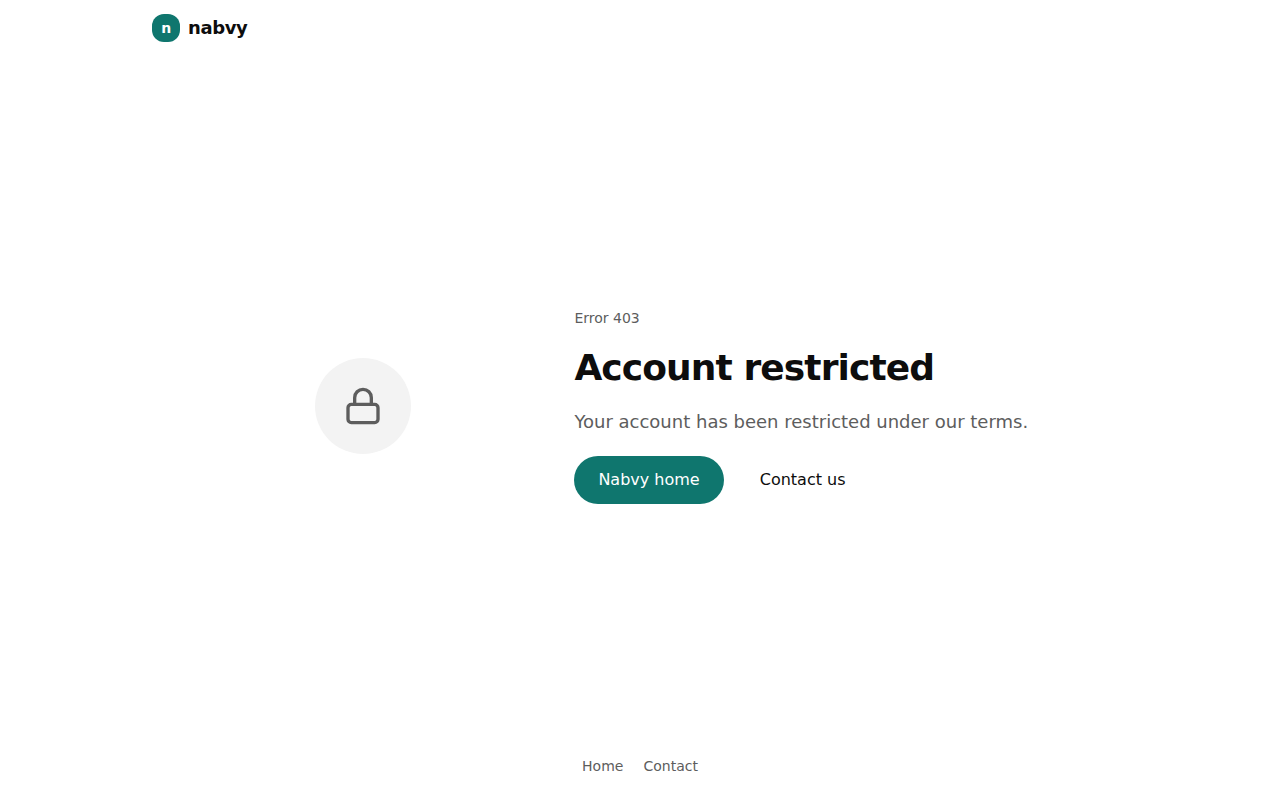
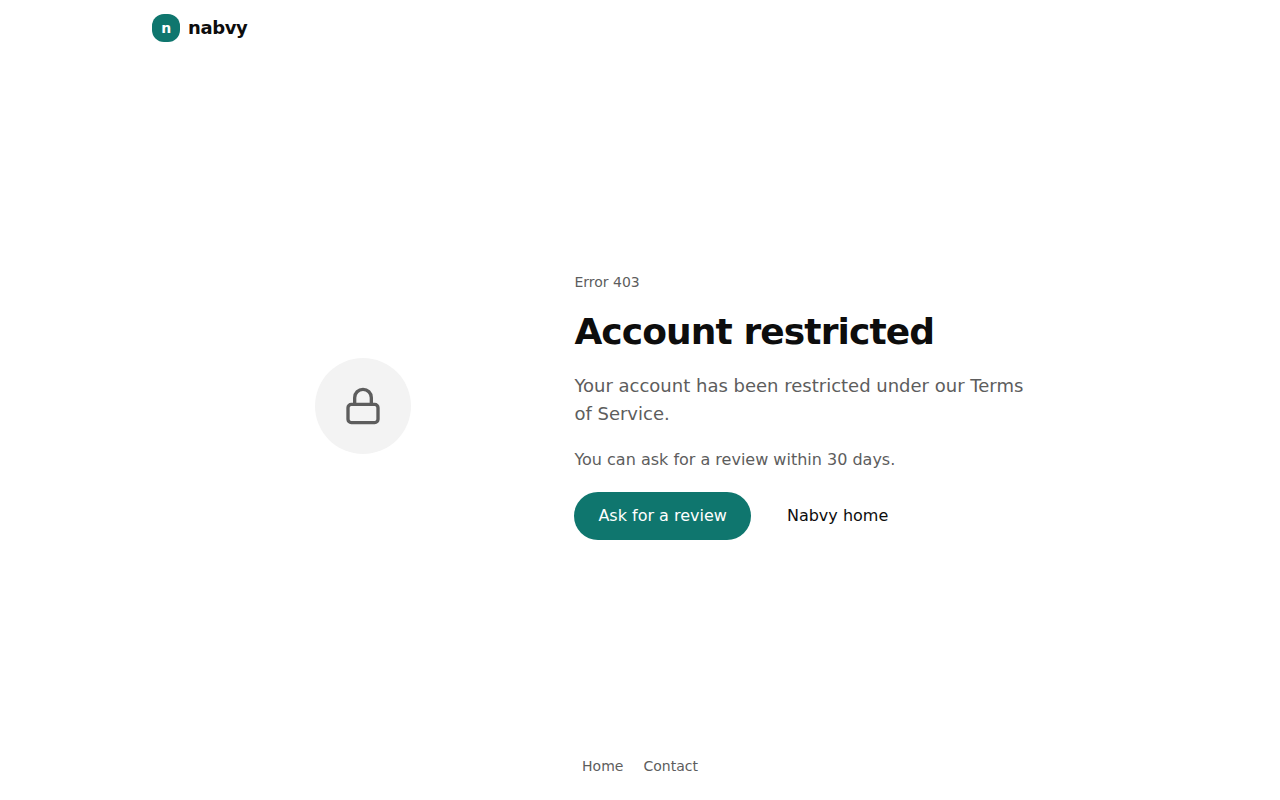
web: restricted notice names the step and policy with the 30-day review; review fixes (task 4.1c)
Claude-Session: https://claude.ai/code/session_01CcwBErXfCaenzcEtRzHvvB

Changed region(s): [[0.4375, 0.3438, 0.8125, 0.5312], [0.4375, 0.5625, 0.6875, 0.6875]]

diff --git a/apps/web/src/lib/errors.ts b/apps/web/src/lib/errors.ts
@@ -1,5 +1,5 @@
 /**
- * Copy for every error page (task 4.1b). One entry per HTTP status the app can show, plus the
+ * Copy for every error page (task 4.1c). One entry per HTTP status the app can show, plus the
  * account-restricted notice. The pattern is the one big tech uses: the code as a graphic, a
  * short human headline, one or two sentences saying what happened and what to do, one main
  * action, and a reference for server errors. Wording is Nabvy's own, in the deal-hunting
@@ -29,12 +29,46 @@ const signIn: ErrorAction = { label: 'Sign in', href: '/sign-in' }
 const contact: ErrorAction = { label: 'Contact us', href: 'mailto:hello@nabvy.com' }
 
 /**
- * The account-restricted notice. It must stay word for word the auth module's
- * ACCOUNT_RESTRICTED_MESSAGE (`@nabvy/contracts/modules/auth`, PR #9), and never gains a reason,
- * rule, date or score (docs/decisions.md, "Fair use, suspension and bans"). It is imported from
- * the contract once that pull request is merged.
+ * The account-restricted notice (docs/decisions.md, "Fair use, suspension and bans"): it names
+ * the step and the policy it was taken under and nothing more, and offers a review within 30
+ * days. No reason, rule, date or score. This mirrors `accountRestrictedNotice` and
+ * `ACCOUNT_REVIEW_OFFER` in `@nabvy/contracts/modules/auth` (PR #9); once that is merged these
+ * are imported from there instead.
  */
-export const ACCOUNT_RESTRICTED_NOTICE = 'Your account has been restricted under our terms.'
+export const RESTRICTION_POLICY_NAMES = {
+  terms: 'Terms of Service',
+  'acceptable-use': 'Acceptable Use Policy',
+  'fair-use': 'Fair Use Policy',
+} as const
+
+export type RestrictionPolicy = keyof typeof RESTRICTION_POLICY_NAMES
+export type RestrictionStep = 'suspended' | 'banned'
+
+export function restrictedNotice(step: RestrictionStep, policy: RestrictionPolicy): string {
+  return `Your account has been ${step} under our ${RESTRICTION_POLICY_NAMES[policy]}.`
+}
+
+export const REVIEW_OFFER = 'You can ask for a review within 30 days.'
+
+/** The step and policy from `/errors/restricted?step=…&policy=…`, or null if either is unknown. */
+export function parseRestriction(params: {
+  step?: string | string[]
+  policy?: string | string[]
+}): { step: RestrictionStep; policy: RestrictionPolicy } | null {
+  const step = params.step
+  const policy = params.policy
+  if (step !== 'suspended' && step !== 'banned') return null
+  if (typeof policy !== 'string' || !Object.hasOwn(RESTRICTION_POLICY_NAMES, policy)) return null
+  return { step, policy: policy as RestrictionPolicy }
+}
+
+/** Shown when the page is opened without a valid step and policy: still names no reason. */
+export const RESTRICTED_FALLBACK = 'Your account has been restricted under our Terms of Service.'
+
+const review: ErrorAction = {
+  label: 'Ask for a review',
+  href: 'mailto:hello@nabvy.com?subject=Account%20review',
+}
 
 export const errorPages = {
   '400': {
@@ -141,9 +175,9 @@ export const errorPages = {
     status: 403,
     tag: 'Restricted',
     title: 'Account restricted',
-    description: ACCOUNT_RESTRICTED_NOTICE,
-    primary: home,
-    secondary: contact,
+    description: RESTRICTED_FALLBACK,
+    primary: review,
+    secondary: home,
     plain: true,
   },
 } as const satisfies Record<string, ErrorPageCopy>
@@ -151,6 +185,9 @@ export const errorPages = {
 export type ErrorKind = keyof typeof errorPages
 
 export const errorKinds = Object.keys(errorPages) as ErrorKind[]
+
+/** The kinds served as static pages under /errors/[code]; `restricted` has its own route. */
+export const staticErrorKinds = errorKinds.filter((kind) => kind !== 'restricted')
 
 export function isErrorKind(value: string): value is ErrorKind {
   return Object.hasOwn(errorPages, value)

diff --git a/apps/web/test/errors.test.ts b/apps/web/test/errors.test.ts
@@ -1,5 +1,13 @@
+import { readFileSync } from 'node:fs'
 import { describe, expect, it } from 'vitest'
-import { ACCOUNT_RESTRICTED_NOTICE, errorKinds, errorPages, isErrorKind } from '@/lib/errors'
+import {
+  errorKinds,
+  errorPages,
+  isErrorKind,
+  parseRestriction,
+  REVIEW_OFFER,
+  restrictedNotice,
+} from '@/lib/errors'
 
 // Copy rules for the error pages (docs/web-app.md, "Copy rules"; docs/decisions.md, "Fair use,
 // suspension and bans").
@@ -41,13 +49,38 @@ describe('error pages', () => {
     }
   })
 
-  it('the restricted notice is the vague message and nothing more', () => {
+  it('the restricted notice names the step and policy only, and offers a review', () => {
+    expect(restrictedNotice('suspended', 'fair-use')).toBe(
+      'Your account has been suspended under our Fair Use Policy.',
+    )
+    expect(restrictedNotice('banned', 'terms')).toBe(
+      'Your account has been banned under our Terms of Service.',
+    )
+    expect(REVIEW_OFFER).toBe('You can ask for a review within 30 days.')
     const copy = errorPages.restricted
-    expect(copy.description).toBe('Your account has been restricted under our terms.')
-    expect(copy.description).toBe(ACCOUNT_RESTRICTED_NOTICE)
     expect(copy.plain).toBe(true)
-    const text = [copy.title, copy.tag, copy.primary.label, copy.secondary.label].join(' ')
-    expect(text).not.toMatch(/\b(ban|banned|suspend|suspended|until|reason|abuse|fraud|score)\b/i)
+    expect(copy.primary.label).toBe('Ask for a review')
+    const text = [copy.title, copy.tag, copy.description, copy.primary.label, copy.secondary.label]
+    expect(text.join(' ')).not.toMatch(/\b(reason|abuse|fraud|score|until|evidence)\b/i)
+  })
+
+  it('reads only a known step and policy from the address', () => {
+    expect(parseRestriction({ step: 'suspended', policy: 'fair-use' })).toEqual({
+      step: 'suspended',
+      policy: 'fair-use',
+    })
+    expect(parseRestriction({ step: 'suspended', policy: 'because we said so' })).toBeNull()
+    expect(parseRestriction({ step: 'kicked', policy: 'terms' })).toBeNull()
+    expect(parseRestriction({ step: ['banned'], policy: 'terms' })).toBeNull()
+    expect(parseRestriction({})).toBeNull()
+  })
+
+  it('server error pages show the opaque digest, never the message or stack', () => {
+    for (const file of ['error.tsx', 'global-error.tsx']) {
+      const source = readFileSync(new URL(`../src/app/${file}`, import.meta.url), 'utf8')
+      expect(source, file).toMatch(/reference=\{error\.digest\}/)
+      expect(source, file).not.toMatch(/error\.(message|stack|cause)/)
+    }
   })
 
   it('the generic 403 never hints at a restriction', () => {

diff --git a/apps/web/src/app/errors/[code]/page.tsx b/apps/web/src/app/errors/[code]/page.tsx
@@ -1,17 +1,17 @@
 import type { Metadata } from 'next'
 import { notFound } from 'next/navigation'
 import { ErrorPage } from '@/components/error-page'
-import { errorKinds, errorPages, isErrorKind } from '@/lib/errors'
+import { errorPages, isErrorKind, staticErrorKinds } from '@/lib/errors'
 
 /**
- * A static page per error (/errors/400 … /errors/504, /errors/restricted). The CDN, the proxy
+ * A static page per error (/errors/400 … /errors/504; /errors/restricted has its own route). The CDN, the proxy
  * and route handlers rewrite to these when Next's own boundaries do not apply (for example a 429
  * from the rate limiter or a 503 during maintenance); they are also the design reference.
  */
 export const dynamicParams = false
 
 export function generateStaticParams() {
-  return errorKinds.map((code) => ({ code }))
+  return staticErrorKinds.map((code) => ({ code }))
 }
 
 export async function generateMetadata({
@@ -28,6 +28,6 @@ export async function generateMetadata({
 
 export default async function ErrorCodePage({ params }: { params: Promise<{ code: string }> }) {
   const { code } = await params
-  if (!isErrorKind(code)) notFound()
+  if (!isErrorKind(code) || code === 'restricted') notFound()
   return <ErrorPage kind={code} />
 }

diff --git a/apps/web/src/components/error-page.tsx b/apps/web/src/components/error-page.tsx
@@ -15,9 +15,15 @@ export function ErrorPage({
   kind,
   reference,
   action,
+  description,
+  note,
   className,
 }: {
   kind: ErrorKind
+  /** Replaces the kind's description, e.g. the restriction notice for this account. */
+  description?: string
+  /** A second line under the description, e.g. the review offer. */
+  note?: string
   /** Shown for server errors, e.g. Next's error digest. */
   reference?: string
   /** Extra first action, e.g. a "Try again" button that resets the error boundary. */
@@ -51,7 +57,10 @@ export function ErrorPage({
             <h1 className="text-balance font-semibold text-3xl tracking-tight sm:text-4xl">
               {copy.title}
             </h1>
-            <p className="text-pretty text-lg text-muted-foreground">{copy.description}</p>
+            <p className="text-pretty text-lg text-muted-foreground">
+              {description ?? copy.description}
+            </p>
+            {note ? <p className="text-muted-foreground">{note}</p> : null}
             <div className="flex flex-wrap justify-center gap-3 md:justify-start">
               {action}
               <Button asChild size="lg" variant={action ? 'outline' : 'primary'}>

diff --git a/apps/web/src/app/errors/restricted/page.tsx b/apps/web/src/app/errors/restricted/page.tsx
@@ -1,0 +1,28 @@
+import type { Metadata } from 'next'
+import { ErrorPage } from '@/components/error-page'
+import { parseRestriction, RESTRICTED_FALLBACK, REVIEW_OFFER, restrictedNotice } from '@/lib/errors'
+
+/**
+ * The account-restricted notice (docs/decisions.md, "Fair use, suspension and bans"). The session
+ * helpers' refusal carries the step and the policy; the app redirects here with them, for example
+ * /errors/restricted?step=suspended&policy=fair-use. Anything else in the address is ignored, so
+ * the page can never show a reason, rule, date or score.
+ */
+export const metadata: Metadata = { title: 'Account restricted', robots: { index: false } }
+
+export default async function RestrictedPage({
+  searchParams,
+}: {
+  searchParams: Promise<{ step?: string | string[]; policy?: string | string[] }>
+}) {
+  const restriction = parseRestriction(await searchParams)
+  return (
+    <ErrorPage
+      kind="restricted"
+      description={
+        restriction ? restrictedNotice(restriction.step, restriction.policy) : RESTRICTED_FALLBACK
+      }
+      note={REVIEW_OFFER}
+    />
+  )
+}

diff --git a/apps/web/e2e/errors.spec.ts b/apps/web/e2e/errors.spec.ts
@@ -31,9 +31,13 @@ test('an unknown address answers 404 with the error page', async ({ page }) => {
   await expect(page.getByRole('link', { name: 'Go to your dashboard' })).toBeVisible()
 })
 
-test('the restricted notice shows only the vague message', async ({ page }) => {
-  await page.goto('/errors/restricted')
+test('the restricted notice names the step and policy only, and offers a review', async ({
+  page,
+}) => {
+  await page.goto('/errors/restricted?step=suspended&policy=fair-use&reason=chargeback-abuse')
   const text = await page.locator('main').innerText()
-  expect(text).toContain('Your account has been restricted under our terms.')
-  expect(text).not.toMatch(/\b(ban|banned|suspend|suspended|until|reason)\b/i)
+  expect(text).toContain('Your account has been suspended under our Fair Use Policy.')
+  expect(text).toContain('You can ask for a review within 30 days.')
+  expect(text).not.toMatch(/chargeback|abuse|until|reason/i)
+  await expect(page.getByRole('link', { name: 'Ask for a review' })).toBeVisible()
 })

diff --git a/apps/web/next.config.ts b/apps/web/next.config.ts
@@ -9,7 +9,7 @@ const nextConfig: NextConfig = {
   // so no remote image hosts are allowed.
   images: { remotePatterns: [] },
   // forbidden() and unauthorized() render app/forbidden.tsx (403) and app/unauthorized.tsx (401),
-  // so the session helpers' failures get their own pages (task 4.1b).
+  // so the session helpers' failures get their own pages (task 4.1c).
   experimental: { authInterrupts: true },
 }
 

diff --git a/apps/web/README.md b/apps/web/README.md
@@ -74,7 +74,7 @@ there are no CSP or HSTS headers. Do not deploy the app before tasks 0.5a (waitl
 (auth and the admin role) and 4.3b (security headers and rate limits) land. Fixture listing links
 point at `.invalid` hosts so none can resolve to a real listing.
 
-## Error pages (task 4.1b)
+## Error pages (task 4.1c)
 
 Every error the app can show uses one layout, `components/error-page.tsx`, with its copy in
 `lib/errors.ts`. The layout follows the pattern big tech uses for error pages, adapted to Nabvy:
@@ -92,16 +92,22 @@ Every error the app can show uses one layout, `components/error-page.tsx`, with 
 | `app/global-error.tsx` | 500 in the root layout; brings its own `<html>` |
 | `app/unauthorized.tsx` | 401 from `unauthorized()`, e.g. when `requireUser` fails |
 | `app/forbidden.tsx` | 403 from `forbidden()`, e.g. when `requireAdmin` fails |
-| `app/errors/[code]` | static pages for 400, 401, 403, 404, 408, 410, 429, 500, 502, 503 and 504, plus `restricted`. The proxy, route handlers and the CDN rewrite to these when Next's own boundaries do not apply (a 429 from the rate limiter, a 503 during maintenance) |
+| `app/errors/restricted` | the account-restricted notice (below) |
+| `app/errors/[code]` | static pages for 400, 401, 403, 404, 408, 410, 429, 500, 502, 503 and 504. The proxy, route handlers and the CDN rewrite to these when Next's own boundaries do not apply (a 429 from the rate limiter, a 503 during maintenance) |
 
 - `forbidden()` and `unauthorized()` need Next's `experimental.authInterrupts`, which is on in
-  `next.config.ts`.
-- **`/errors/restricted` stays plain on purpose:** a lock, "Account restricted", and exactly "Your
-  account has been restricted under our terms.", with no illustration or joke and no reason, date
-  or rule (`docs/decisions.md`, "Fair use, suspension and bans"). It offers "Nabvy home" and a
-  generic "Contact us", as big tech does. The generic 403 page never hints at a restriction. The
-  notice's text is duplicated in `lib/errors.ts` until the auth module's contract
-  (`ACCOUNT_RESTRICTED_MESSAGE`, PR #9) can be imported.
+  `next.config.ts`. It is an experimental flag for the whole app, tested on Next.js 16.3.6; check
+  these two pages after any Next.js upgrade.
+- Server error pages show only Next's opaque error digest as the reference, never the error's
+  message or stack (`test/errors.test.ts` checks the source).
+- **`/errors/restricted` stays plain on purpose:** a lock, "Account restricted", and the notice the
+  owner's decision allows (`docs/decisions.md`, "Fair use, suspension and bans"): the step and the
+  policy, for example "Your account has been suspended under our Fair Use Policy.", then "You can
+  ask for a review within 30 days." with an "Ask for a review" action. The app redirects there
+  with `?step=…&policy=…` from the auth module's refusal; anything else in the address is
+  ignored, and without a valid pair the page names the Terms of Service. No illustration, joke,
+  reason, date or rule. The generic 403 page never hints at a restriction. The notice is
+  mirrored in `lib/errors.ts` until the auth module's contract (PR #9) can be imported.
 - The copy follows the app's copy rules (no exclamation marks, no urgency, UK English).
   `test/errors.test.ts` checks it, and `e2e/errors.spec.ts` renders every page in the four
   projects and checks that an unknown address answers 404. The screenshots are

diff --git a/docs/questions.md b/docs/questions.md
@@ -33,4 +33,4 @@ Agents append here when a spec is unclear or a secret is missing. Format: date, 
 - **2026-09-24, 4.1a: scan screen scope.** Scan mode's on-demand fetch is ruled out for Facebook by the brief ("Never run Facebook fetches or AI per user") and the MVP has no other source. Option taken: `/app/scan` is a skeleton that says "Not available yet." Needed from the owner: whether scan mode is in the public beta, and what it may do.
 - **2026-09-24, 4.1a: user-facing wording and defaults to confirm.** Chosen as the plainest reading of the rules, each open to the owner. Settings shown to users: the hunt radii offered (10, 25, 40 and 60 km, default 40 km per `docs/web-app.md`) and the deal-feed filter "Lowest quarter of asks". Marketing claims were removed on review rather than decided ("Public beta", "No hidden scores", "Telegram: fastest", "A person reviews every report", a promise to publish the daily median); the source is not named in marketing copy until the MVP-scope decision is on `main`. Wording in use: the label kinds "Suspected trade seller" and "Suspected copied advert" (scam labels have no UI while in shadow mode); "Not enough comparable asks" and "Lower than 87% of comparable asks"; "Not stated, ask the seller"; the landing headline "Second-hand deals near you, checked before they reach you."; the footer line "Nabvy is not affiliated with Facebook or Meta."
 - **2026-09-24, 4.1a: MPL-2.0 build tool.** Tailwind CSS 4 (which the build pack names) depends on `lightningcss` (MPL-2.0) at build time. The same package was already in the lockfile through the root's `vite`/`vitest`. It is never shipped to the browser or linked into core code. Option taken: keep Tailwind 4 and flag it. The alternative is Tailwind 3 (no `lightningcss`), which would not remove it from the lockfile while vitest needs it. `caniuse-lite` (CC-BY-4.0 data) comes with Next.js itself. `tslib` (0BSD, a permissive licence not on the list in `CLAUDE.md`) also arrives transitively.
-- **2026-09-24, 4.1b error pages: wording shown to users.** The owner asked for catchy error pages like big tech's, on Nabvy's brand. The headlines and sentences are in `apps/web/src/lib/errors.ts`. For example: 404 "This one got away", 403 "This aisle is staff only", 429 "One thing at a time", 500 "Something broke on our side", 502 "Crossed wires", 503 "Back shortly". Option taken: playful headlines with plain, calm explanations, following the copy rules. The account-restricted page uses only the owner's own notice. Conservative because the explanations promise nothing and reveal nothing about enforcement; the owner may retune the tone.
+- **2026-09-24, 4.1c error pages: wording shown to users.** The owner asked for catchy error pages like big tech's, on Nabvy's brand. The headlines and sentences are in `apps/web/src/lib/errors.ts`. For example: 404 "This one got away", 403 "This aisle is staff only", 429 "One thing at a time", 500 "Something broke on our side", 502 "Crossed wires", 503 "Back shortly". Option taken: playful headlines with plain, calm explanations, following the copy rules. The account-restricted page shows only the notice the owner's decision allows (step and policy) and the 30-day review offer. Conservative because the explanations promise nothing and reveal nothing about enforcement; the owner may retune the tone.
